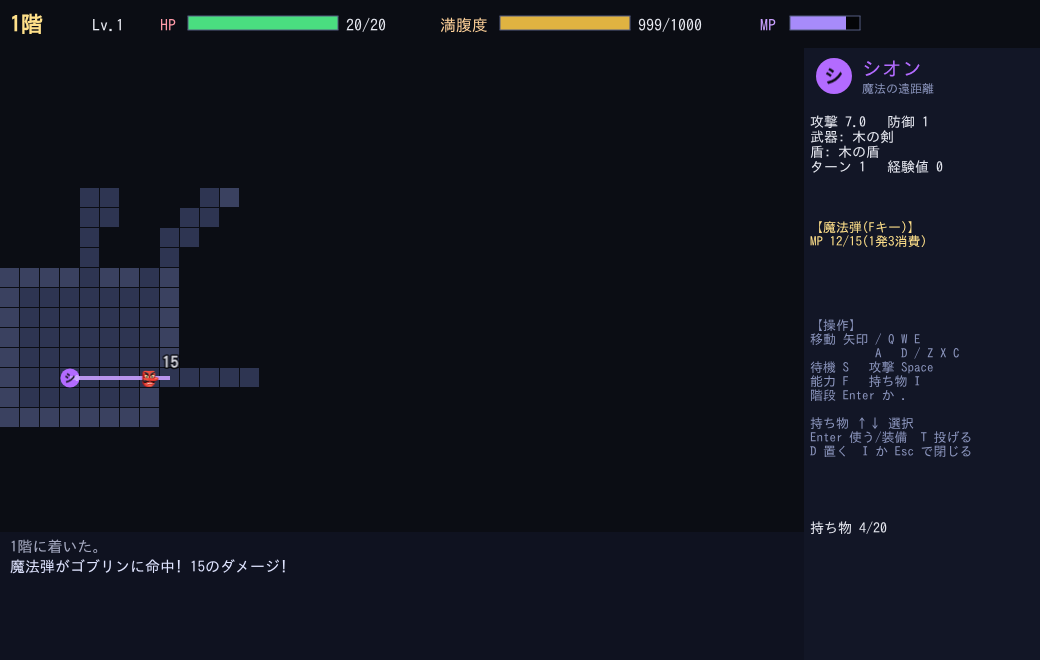
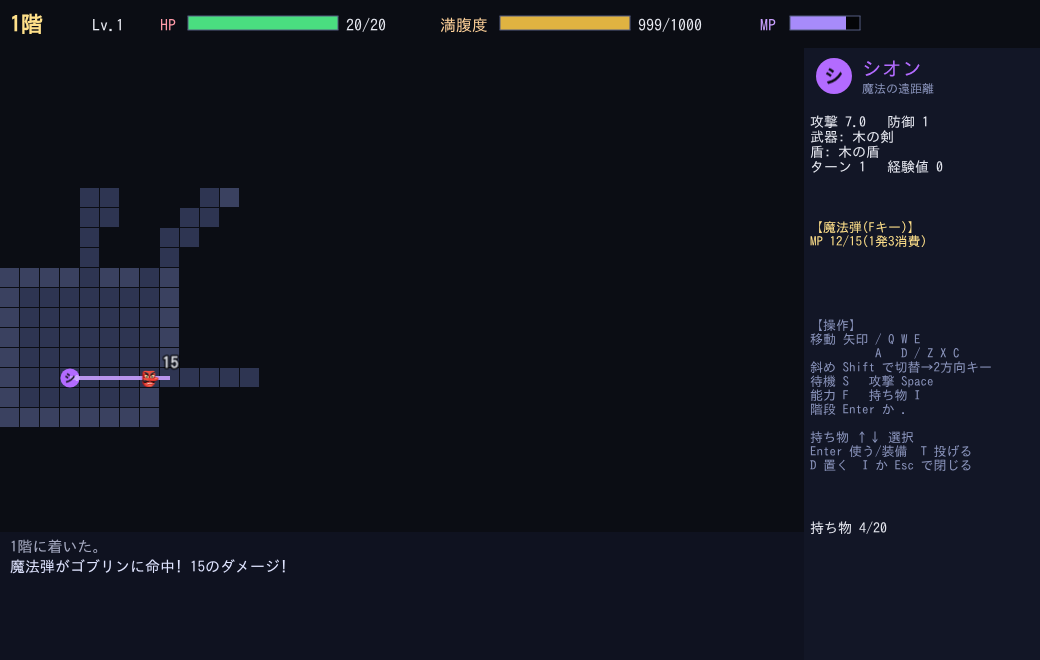
遠距離攻撃は同じ部屋・通路どうしだけに制限、斜めモード(Shift+2方向キー)を追加
Claude-Session: https://claude.ai/code/session_01CApP844H6gPytoXvYh9u8m

Changed region(s): [[0.7692, 0.5455, 0.9538, 0.7273]]

diff --git a/src/scenes/DungeonScene.ts b/src/scenes/DungeonScene.ts
@@ -1,6 +1,7 @@
 import Phaser from 'phaser';
 import { BARRAGE_CD, BOSS, CHARS, CLAYD_CD, ENEMIES, INV_MAX, MAX_FLOOR, MAX_FULLNESS, effectOf } from '../core/data';
 import { Action, Fx, Game, Item } from '../core/game';
+import { DiagInput } from '../core/diag';
 import { STAIRS, W, H, WALL } from '../core/mapgen';
 import { GAME_H, GAME_W, hex, session, txt } from '../ui';
 
@@ -34,6 +35,8 @@ export class DungeonScene extends Phaser.Scene {
   private vis = new Uint8Array(W * H);
   private ending = false;
   private throwIdx: number | null = null;
+  private diag = new DiagInput();
+  private shiftDownAt = 0;
 
   constructor() { super('Dungeon'); }
 
@@ -50,6 +53,14 @@ export class DungeonScene extends Phaser.Scene {
     this.menu = this.add.container(0, 0);
     this.input.keyboard!.addCapture('UP,DOWN,LEFT,RIGHT,SPACE');
     this.input.keyboard!.on('keydown', (ev: KeyboardEvent) => this.onKey(ev));
+    this.input.keyboard!.on('keyup', (ev: KeyboardEvent) => {
+      // Shiftを長押ししていたときは、離したら元のモードに戻す(押している間だけ斜め)
+      if ((ev.code === 'ShiftLeft' || ev.code === 'ShiftRight') && performance.now() - this.shiftDownAt > 400) {
+        this.diag.toggle();
+        this.render();
+      }
+    });
+    this.diag = new DiagInput();
     this.render();
     const w = window as unknown as { __app?: unknown };
     w.__app = {
@@ -91,8 +102,18 @@ export class DungeonScene extends Phaser.Scene {
       this.render();
       return;
     }
+    if (ev.code === 'ShiftLeft' || ev.code === 'ShiftRight') {
+      if (!ev.repeat) { this.shiftDownAt = performance.now(); this.diag.toggle(); this.render(); }
+      return;
+    }
     const dir = KEYS[ev.code];
-    if (dir) { this.step({ t: 'move', dx: dir[0], dy: dir[1] }); return; }
+    if (dir) {
+      const mv = this.diag.press(dir[0], dir[1], performance.now());
+      if (mv) this.step({ t: 'move', dx: mv.dx, dy: mv.dy });
+      else this.render();
+      return;
+    }
+    if (ev.code === 'Escape' && this.diag.pending) { this.diag.clear(); this.render(); return; }
     switch (ev.code) {
       case 'KeyS': case 'Numpad5': this.step({ t: 'wait' }); break;
       case 'Space': this.step({ t: 'attack' }); break;
@@ -103,6 +124,7 @@ export class DungeonScene extends Phaser.Scene {
   }
 
   step(a: Action) {
+    this.diag.clear();
     this.dg.act(a);
     this.render();
     const g = this.dg;
@@ -248,6 +270,12 @@ export class DungeonScene extends Phaser.Scene {
     add(txt(this, 440, 14, '満腹度', 16, '#ffd29a'));
     this.bar(500, 16, 130, 14, p.fullness / MAX_FULLNESS, p.fullness < 200 ? 0xff7a3d : 0xe0b341);
     add(txt(this, 638, 14, `${p.fullness}/${MAX_FULLNESS}`, 16));
+    const now = performance.now();
+    if (this.diag.mode) {
+      add(txt(this, GAME_W - 10, 4, '斜めモード ON(Shiftで解除)', 14, '#ffb86b', { fontStyle: 'bold' }).setOrigin(1, 0));
+      const hint = this.diag.pendingLabel(now);
+      add(txt(this, GAME_W - 10, 24, hint ?? '方向キーを2つ押すと斜めに進む', 13, hint ? '#ffffff' : '#c9a36b').setOrigin(1, 0));
+    }
     if (p.maxMp > 0) {
       add(txt(this, 760, 14, 'MP', 16, '#c9a0ff'));
       this.bar(790, 16, 70, 14, p.mp / p.maxMp, 0xa78bfa);
@@ -274,7 +302,7 @@ export class DungeonScene extends Phaser.Scene {
     add(txt(this, PANEL_X, MAP_Y + 170, `${ab}\n${st}`, 13, '#ffe08a', { wordWrap: { width: GAME_W - PANEL_X - 8, useAdvancedWrap: true } }));
     // 操作説明
     add(txt(this, PANEL_X, MAP_Y + 268,
-      '【操作】\n移動 矢印 / Q W E\n          A   D / Z X C\n待機 S   攻撃 Space\n能力 F   持ち物 I\n階段 Enter か .\n\n持ち物 ↑↓ 選択\nEnter 使う/装備  T 投げる\nD 置く  I か Esc で閉じる', 13, '#8b95bd'));
+      '【操作】\n移動 矢印 / Q W E\n          A   D / Z X C\n斜め Shift で切替→2方向キー\n待機 S   攻撃 Space\n能力 F   持ち物 I\n階段 Enter か .\n\n持ち物 ↑↓ 選択\nEnter 使う/装備  T 投げる\nD 置く  I か Esc で閉じる', 13, '#8b95bd'));
     add(txt(this, PANEL_X, MAP_Y + 470, `持ち物 ${p.inv.length}/${INV_MAX}`, 14, '#e8eaf2'));
     void BARRAGE_CD; void CLAYD_CD; void MAX_FLOOR;
   }

diff --git a/test/core.test.ts b/test/core.test.ts
@@ -4,6 +4,7 @@ import { Game, Monster } from '../src/core/game';
 import { CHAR_IDS, ENEMIES, BOSS, CharId, INV_MAX, MAX_FULLNESS, MAX_FLOOR } from '../src/core/data';
 import { FLOOR, H, STAIRS, W, generateFloor } from '../src/core/mapgen';
 import { runBot } from '../src/core/bot';
+import { DiagInput } from '../src/core/diag';
 
 /** 何もない広い部屋に敵なし・罠なしで始める */
 function arena(charId: CharId, seed = 1): Game {
@@ -13,6 +14,7 @@ function arena(charId: CharId, seed = 1): Game {
   g.monsters = [];
   g.traps = [];
   g.floorItems = [];
+  g.map.rooms = [{ x: 2, y: 2, w: 28, h: 10 }];
   g.player.x = 5;
   g.player.y = 5;
   g.player.dx = 1;
@@ -355,5 +357,74 @@ describe('ボット', () => {
       expect(r.timeout).toBe(false);
       expect(r.turns).toBeLessThanOrEqual(20000);
     }
+  });
+});
+
+describe('遠距離攻撃は部屋を出れば逃げられる', () => {
+  it('同じ部屋の中では遠距離攻撃を受ける', () => {
+    const g = arena('elwin');
+    g.map.rooms = [{ x: 2, y: 2, w: 10, h: 10 }];
+    put(g, 'archer', 9, 5);
+    const hp = g.player.hp;
+    g.act({ t: 'wait' });
+    expect(g.player.hp).toBeLessThan(hp);
+  });
+
+  it('プレイヤーが部屋から通路に出ると、部屋の中の敵は遠距離攻撃をしてこない', () => {
+    for (const id of ['archer', 'mage']) {
+      const g = arena('elwin');
+      g.map.rooms = [{ x: 2, y: 2, w: 10, h: 10 }];
+      g.player.x = 13; // 部屋(x2〜11)の外
+      g.player.y = 5;
+      put(g, id, 10, 5, { atk: 50 });
+      expect(g.roomIndexAt(13, 5)).toBe(-1);
+      const hp = g.player.hp;
+      g.act({ t: 'wait' });
+      expect(g.player.hp).toBe(hp);
+    }
+  });
+
+  it('通路どうしでは真っ直ぐ撃たれる', () => {
+    const g = arena('elwin');
+    g.map.rooms = [{ x: 2, y: 2, w: 4, h: 4 }];
+    g.player.x = 15;
+    put(g, 'archer', 19, 5);
+    const hp = g.player.hp;
+    g.act({ t: 'wait' });
+    expect(g.player.hp).toBeLessThan(hp);
+  });
+});
+
+describe('斜め入力', () => {
+  it('通常時は1つの方向キーでそのまま動く', () => {
+    const d = new DiagInput();
+    expect(d.press(0, -1, 0)).toEqual({ dx: 0, dy: -1 });
+  });
+
+  it('斜めモードでは、2つの方向キーで斜めに動き、1つだけでは動かない', () => {
+    const d = new DiagInput();
+    d.toggle();
+    expect(d.press(0, -1, 0)).toBeNull();
+    expect(d.press(1, 0, 100)).toEqual({ dx: 1, dy: -1 });
+    expect(d.press(-1, 0, 200)).toBeNull();
+    expect(d.press(0, 1, 300)).toEqual({ dx: -1, dy: 1 });
+  });
+
+  it('同じ軸の2つ目は入れ替え、時間が過ぎた1つ目は無効、モード解除で通常に戻る', () => {
+    const d = new DiagInput(1000);
+    d.toggle();
+    expect(d.press(0, -1, 0)).toBeNull();
+    expect(d.press(0, 1, 100)).toBeNull(); // 同じ軸 → 入れ替え
+    expect(d.press(1, 0, 200)).toEqual({ dx: 1, dy: 1 });
+    expect(d.press(0, -1, 0)).toBeNull();
+    expect(d.press(1, 0, 5000)).toBeNull(); // 時間切れ → 新しい1つ目
+    d.toggle();
+    expect(d.press(1, 0, 6000)).toEqual({ dx: 1, dy: 0 });
+  });
+
+  it('QEZCなどの斜めキーは斜めモード中でもそのまま斜めに動く', () => {
+    const d = new DiagInput();
+    d.toggle();
+    expect(d.press(1, -1, 0)).toEqual({ dx: 1, dy: -1 });
   });
 });

diff --git a/src/core/diag.ts b/src/core/diag.ts
@@ -1,0 +1,47 @@
+// 斜め移動の入力処理(描画に依存しない)。
+// 斜めモードをONにすると、方向キー2つ(例: ↑と→)を押したときだけ斜めに進む。
+export interface Move {
+  dx: number;
+  dy: number;
+}
+
+export class DiagInput {
+  mode = false;
+  pending: (Move & { t: number }) | null = null;
+
+  constructor(private timeoutMs = 2000) {}
+
+  toggle(): boolean {
+    this.mode = !this.mode;
+    this.pending = null;
+    return this.mode;
+  }
+
+  clear() {
+    this.pending = null;
+  }
+
+  /** 1つの方向入力を渡す。移動が決まれば Move を返し、2つ目待ちなら null を返す。 */
+  press(dx: number, dy: number, now: number): Move | null {
+    if (!this.mode || (dx !== 0 && dy !== 0)) {
+      this.pending = null;
+      return { dx, dy };
+    }
+    const p = this.pending;
+    if (p && now - p.t <= this.timeoutMs && (p.dx !== 0) !== (dx !== 0)) {
+      this.pending = null;
+      return { dx: p.dx + dx, dy: p.dy + dy };
+    }
+    this.pending = { dx, dy, t: now };
+    return null;
+  }
+
+  /** 画面に出す案内。2つ目待ちのときは押した方向を出す。 */
+  pendingLabel(now: number): string | null {
+    const p = this.pending;
+    if (!p || now - p.t > this.timeoutMs) return null;
+    const name = p.dy < 0 ? '↑' : p.dy > 0 ? '↓' : p.dx < 0 ? '←' : '→';
+    const next = p.dx !== 0 ? '↑ か ↓' : '← か →';
+    return `${name} を押した。次に ${next}`;
+  }
+}

diff --git a/src/core/game.ts b/src/core/game.ts
@@ -341,6 +341,16 @@ export class Game {
     return f;
   }
 
+  /** その座標がある部屋の番号。通路(部屋の外)なら -1 */
+  roomIndexAt(x: number, y: number): number {
+    const rooms = this.map.rooms;
+    for (let i = 0; i < rooms.length; i++) {
+      const r = rooms[i];
+      if (x >= r.x && x < r.x + r.w && y >= r.y && y < r.y + r.h) return i;
+    }
+    return -1;
+  }
+
   canSee(x: number, y: number): boolean {
     const p = this.player;
     if (Math.max(Math.abs(x - p.x), Math.abs(y - p.y)) > 9) return false;
@@ -1045,7 +1055,9 @@ export class Game {
     const ai = m.def.ai;
     const adj = d === 1 && this.canStep(m.x, m.y, Math.sign(p.x - m.x), Math.sign(p.y - m.y));
     if (adj) { this.monsterMelee(m); return; }
-    const lineOk = d >= 2 && this.isAligned(m) && this.los(m.x, m.y, p.x, p.y);
+    // 遠距離攻撃は、同じ部屋にいる間(通路どうしの場合も)だけ撃てる。部屋を出れば逃げられる。
+    const lineOk = d >= 2 && this.isAligned(m) && this.los(m.x, m.y, p.x, p.y) && this.canSee(m.x, m.y) &&
+      this.roomIndexAt(m.x, m.y) === this.roomIndexAt(p.x, p.y);
     if ((ai === 'ranged' || ai === 'mage') && lineOk && d <= m.def.range) {
       this.fx.push({ type: 'bolt', x: m.x, y: m.y, x2: p.x, y2: p.y });
       if (ai === 'ranged') this.hitPlayer(m, 1, false, `${m.def.name}の矢が飛んできた!`);

diff --git a/scripts/shots.ts b/scripts/shots.ts
@@ -82,6 +82,18 @@ async function main() {
   for (const k of ['ArrowRight', 'ArrowRight', 'ArrowDown', 'ArrowRight', 'KeyE', 'ArrowRight']) await key(k);
   await shot('03_exploring_floor1');
 
+  // 3b. 斜めモード(Shiftで切替。方向キー2つで斜め移動)
+  await startRun(1);
+  await stage(`g.monsters = []; carve(p.x + 1, p.y - 1); carve(p.x + 1, p.y); carve(p.x, p.y - 1);`);
+  const before = await page.evaluate(`({ x: window.__app.game.player.x, y: window.__app.game.player.y })`) as { x: number; y: number };
+  await key('Shift');
+  await key('ArrowUp');
+  await shot('03b_diagonal_mode');
+  await key('ArrowRight');
+  const after = await page.evaluate(`({ x: window.__app.game.player.x, y: window.__app.game.player.y })`) as { x: number; y: number };
+  if (after.x !== before.x + 1 || after.y !== before.y - 1) throw new Error(`斜め移動に失敗: ${JSON.stringify(before)} → ${JSON.stringify(after)}`);
+  await shot('03c_diagonal_moved');
+
   // 4. 戦闘中
   await stage(`g.monsters = []; carve(p.x + 1, p.y); carve(p.x + 2, p.y); carve(p.x - 1, p.y);
     spawn('goblin', p.x + 1, p.y, { hp: 40, maxHp: 40, sleep: 0 }); spawn('slime', p.x - 1, p.y);

diff --git a/scripts/single.ts b/scripts/single.ts
@@ -36,6 +36,7 @@ const body = `<meta name="claude:viewport-fit-sides" content="cover">
   <p class="help">
     <span>ゲーム画面をクリックしてから操作してください(キーボード操作です)</span>
     <span><b>移動</b> 矢印 / QWE・AD・ZXC</span>
+    <span><b>斜め</b> Shiftで斜めモード切替(2方向キーで斜め)</span>
     <span><b>待機</b> S</span>
     <span><b>攻撃</b> Space</span>
     <span><b>固有能力</b> F</span>

diff --git a/CHECKLIST.md b/CHECKLIST.md
@@ -4,9 +4,9 @@
 
 ## 完了条件
 - [x] 1. ビルドが通る / `npm run build` → `tsc --noEmit` エラーなし、`vite build` が `✓ built in 1.12s` で完了(dist/ 出力)
-- [x] 2. 自動テストが通る / `npm test` → `Test Files 1 passed (1) / Tests 28 passed (28)`。固有能力5つ(エルウィン回復・バラージ2回行動とCD・シオン魔法とMP・フェイト範囲とHP消費・クレイド鑑定と罠発見)と、同時ターン・満腹度・未鑑定アイテム・罠(地雷/眠りガス/落とし穴)を含む
-- [x] 3. ボット検証の数値目標を満たす / `npm run bot` → クリア率 エルウィン21%・バラージ8%・シオン20%・フェイト8%・クレイド17%(全員5〜70%)、最大差13ポイント(≤40)、平均到達階 8.49〜9.16(≥4)、20000ターン超過0件・クラッシュ0件、`判定: 合格`
-- [x] 4. スクショが全て保存されている / `npm run shots` → screenshots/ に16枚(01_title, 02_charselect, 03_exploring_floor1, 04_battle, 05〜09の固有能力5枚, 09a/10 クレイドの鑑定前後, 10b/10c 投げる操作, 11_boss, 12_gameover, 13_clear)。撮れなかった画面なし
+- [x] 2. 自動テストが通る / `npm test` → `Test Files 1 passed (1) / Tests 35 passed (35)`。固有能力5つ(エルウィン回復・バラージ2回行動とCD・シオン魔法とMP・フェイト範囲とHP消費・クレイド鑑定と罠発見)と、同時ターン・満腹度・未鑑定アイテム・罠(地雷/眠りガス/落とし穴)を含む
+- [x] 3. ボット検証の数値目標を満たす / `npm run bot` → クリア率 エルウィン38%・バラージ18%・シオン30%・フェイト18%・クレイド23%(全員5〜70%)、最大差20ポイント(≤40)、平均到達階 8.92〜9.30(≥4)、20000ターン超過0件・クラッシュ0件、`判定: 合格`
+- [x] 4. スクショが全て保存されている / `npm run shots` → screenshots/ に18枚(01_title, 02_charselect, 03_exploring_floor1, 04_battle, 05〜09の固有能力5枚, 09a/10 クレイドの鑑定前後, 10b/10c 投げる操作, 03b/03c 斜めモード, 11_boss, 12_gameover, 13_clear)。撮れなかった画面なし
 - [x] 5. このチェックリストの全項目が埋まっている / 下記の機能欄も全て確認済み
 
 ## 機能
@@ -21,6 +21,8 @@
 - [x] 死亡で最初からやり直し / test「死亡するとゲームオーバー」、ゲームオーバー画面→Enterでキャラ選択へ(`src/scenes/EndScenes.ts`)。スクショ 12_gameover
 - [x] タイトル画面 / キャラ選択画面 / スクショ 01_title, 02_charselect(各キャラの能力説明つき)
 - [x] アイテムを投げる・睡眠草 / test「睡眠草: 食べると3ターン眠り、投げると敵が3ターン眠って殴っても起きない」「投げる: 毒草は敵にダメージ、外れたアイテムは床に落ちる」、スクショ 10b_throw_prompt, 10c_throw_sleep
+- [x] 遠距離攻撃は部屋を出れば逃げられる / test「遠距離攻撃は部屋を出れば逃げられる」3件
+- [x] 斜めモード(Shift + 2方向キー) / test「斜め入力」4件、`npm run shots` が実ブラウザで斜め移動を確認(03b/03c)
 - [x] エルウィンの固有能力 / test + 05_ability_elwin
 - [x] バラージの固有能力 / test + 06_ability_barrage
 - [x] シオンの固有能力 / test + 07_ability_sion

diff --git a/DESIGN.md b/DESIGN.md
@@ -65,6 +65,12 @@
   - 武器は3+威力のダメージ、盾は2ダメージ。その他は当たっても何も起きない。外れた物や当たった武器などは落ちた場所の床に置かれる(アイテムを捨てる手段にもなる)
 - ボットは投げない(ボット検証の数値はボットの簡易ルール基準のまま)。数値目標は通っている(クリア率8〜21%、最大差13ポイント)
 
+## 遠距離攻撃と斜め移動(プレイした人の感想を受けた修正)
+- 部屋を出るだけでは弓兵・魔術師・竜の炎から逃げられないとの指摘があった。原因は、通路が部屋の中央から真っ直ぐ伸びていて、部屋を出ても敵と同じ列に並びやすいこと。遠距離攻撃(矢・魔法・竜の炎)は「同じ部屋の中にいるとき」と「通路どうしのとき」だけ撃てるようにした(`Game.roomIndexAt`)。部屋から通路へ出れば、部屋の中の敵は撃てず、追いかけてくる
+- 最初は「敵からの視線とプレイヤー画面の視界のずれ」が原因と考えて対応したが、矢などは必ず縦・横・斜めに一直線に並ぶときだけ飛ぶので、そのずれは起きないと分かった。無害なので判定には残してある
+- 斜め移動が難しいとの指摘で、斜めモードを追加した(`src/core/diag.ts`)。Shiftキーで切替(押すたびにON/OFF。400ミリ秒より長く押し続けた場合は、離したときに元へ戻る=押している間だけ斜め)。モード中は方向キー(矢印/WAXD)を2つ押すと斜めに進み、1つだけでは動かない。同じ向きの軸を続けて押すと最初のキーを入れ替え、2秒たつと最初のキーは無効。モード中も QEZC は斜めに進む。画面右上に「斜めモード ON」と、1つ目を押した後の案内を出す
+- ボット検証は再実行し、数値目標を通っている(クリア率18〜38%、最大差20ポイント)。遠距離攻撃が弱まったぶんクリア率が上がった
+
 ## スクショについて
 - 全画面を `npm run shots` で撮れた(14枚)。撮れなかった画面はない
 - 撮影用に、状況を作る(敵を隣に置く等)ため `window.__app`(`?debug` 不要・常時公開)を使う。通常のプレイには影響しない
